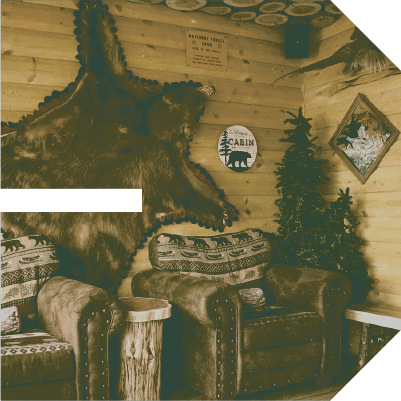
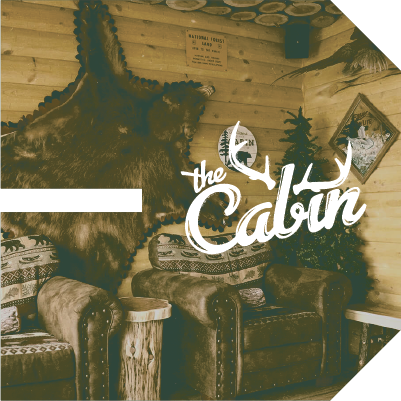
mobilizing 13

Changed region(s): [[0.4489, 0.2993, 0.9277, 0.6584]]

diff --git a/src/components/Cube.vue b/src/components/Cube.vue
@@ -9,12 +9,10 @@
         .cube__face.cube__face--back back
         .cube__face.cube__face--right(:style="bgColor" @click="goToCaseStudy")
             img(:alt='project' :src='getImgUrl(image, ".png")' width="100%" height="100%")
-            .picture-overlay( :class="cubeFace == 'showRight'? 'show-picture' : pictureclass" )
-                img(:src='getLogoUrl(image)' class="image-overlay")  
         .cube__face.cube__face--left
             IconBase(width="22vw" height="22vw" :icon-name="project" :icon-color="color2")
                 component(:is="letter")
-        .cube__face.cube__face--top(:style="[cubeFace == 'showTop' || light? {'background' : 'black'} : {'background' : 'white' }]")
+        .cube__face.cube__face--top(:style="[cubeFace == 'showTop' || light? {'background' : 'black'} : bgColor]")
             .project-name
                 p {{ project }}
             .icon-container(v-for="(icon, index) in iconObject" @click="colorChanger(icon.name, icon.clicked)")
@@ -61,9 +59,6 @@ export default {
     methods: {
         getImgUrl(pic, ext){
             return require('../assets/img/' + pic + ext)
-        },
-        getLogoUrl(pic){
-            return require('../assets/img/cases/overlay/' + pic + '.png')
         },
         goToCaseStudy(){
             this.$router.push(this.image)

diff --git a/src/components/MobileMenu.vue b/src/components/MobileMenu.vue
@@ -5,15 +5,16 @@
     .menu-container(:class="opened? 'open' : 'closed'")
         .menu
             .nav(@click="openMenu")
-                img(src="../assets/close.png" width="32px" height="32px")
+                img(src="../assets/close2.png" width="32px" height="32px")
             .nav(@click="goToLink('/')")
                 p HOME
             .nav(@click="goToLink('os')")
                 p WORK
             .nav(@click="goToLink('contact')")
                 p CONTACT
-            .copyright
-                img(src="../assets/copyright.png" width="50%")
+            b-row(class="copyright")
+                b-col(xs=6 md=6 lg=4 offset-md="3" offset-lg="4")
+                    img(src="../assets/copyright.png" width="50%")
 </template>
 
 <script>
@@ -56,7 +57,9 @@ export default {
 
 .menu-icon img {
     @media(max-width: 767px) { 
-        width 8vw
+        width 12vw
+        margin-right: 2vw
+        margin-top: 2vw
     }
     @media(min-width: 768px) { 
         width 4vw
@@ -102,11 +105,13 @@ export default {
     padding-bottom: 30px
     padding-top:20px
     margin 0 auto
+    cursor: url('../assets/hand.png'), auto
 
 .nav img 
     margin: 25px
 
 .copyright
-    margin-top: 35%
+    margin-top: 10%
+
 
 </style>

diff --git a/src/components/cases/CaseRight.vue b/src/components/cases/CaseRight.vue
@@ -12,10 +12,8 @@
     slot(name='image10')
     slot(name='image11')
     slot(name='image12')
-    SideBar(class="sidebar-hide")
-    MobileMenu(class="mobile-menu-hide")
-    //.escape(class="escape-desktop" @click="goHome")
-      img(src="../../assets/escape.png"  width="32px")
+    //SideBar(class="sidebar-hide")
+    MobileMenu
     .prev-next(class="mobile-menu-hide")
       .prev
           img(src="../../assets/prev.png" @click="goToLink(false)")
@@ -45,9 +43,6 @@ export default {
     MobileMenu
   },
   methods: {
-      goHome(){
-          this.$router.push('/')
-      },
       goToLink(forward){
         var index = this.cases.indexOf(this.case)
         console.log(index)
@@ -84,7 +79,7 @@ export default {
       display: inline-block
       width: 65%
       float: right 
-      padding-right: 65px
+      //padding-right: 65px
     }
 }
 
@@ -97,21 +92,6 @@ export default {
 .mobile-menu-hide {
   @media(min-width: 1140px) { 
     display: none !important
-  }
-}
-
-
-.escape
-    position: fixed
-    top: 0
-    right: 0
-    padding 35px
-
-
-.escape-desktop {
-  @media(min-width: 1140px) { 
-    right: 85px
-    width: 40px
   }
 }
 

diff --git a/src/components/cases/CaseLeft.vue b/src/components/cases/CaseLeft.vue
@@ -1,5 +1,7 @@
 <template lang="pug">
 #case-left(:style="bg")
+    .escape(class="escape-desktop hide-prev" @click="goHome")
+        img(src="../../assets/escape.png"  width="32px")
     .case-content
         h1 {{caseTitle}}
         .line-two
@@ -79,8 +81,12 @@ export default {
             else
                 this.$router.push(this.cases[this.cases.length-1])
         window.scrollTo(0,0)
-    }
     },
+    goHome(){
+          this.$router.push('/')
+    },
+  },
+    
 }
 
 </script>
@@ -186,14 +192,30 @@ p {
 .prev img
     width: 25%
     float: left 
+    cursor: url('../../assets/hand.png'), auto
 
 .next img
     width: 25%
     float: right
-
+    cursor: url('../../assets/hand.png'), auto
+    
 .hide-prev {
   @media(max-width: 1139px) { 
     display: none !important
+  }
+}
+
+.escape
+    position: fixed
+    top: 0
+    left: 30%
+    padding 35px
+
+
+.escape-desktop {
+  @media(min-width: 1140px) { 
+    right: 85px
+    width: 40px
   }
 }
 

diff --git a/src/components/Home.vue b/src/components/Home.vue
@@ -167,7 +167,7 @@ body
     transform: translateX(-50%) translateY(-50%)
     min-height: 100% 
     min-width: 100% 
-    z-index: 1 
+    z-index: 3 
     overflow: hidden
 
 .footerclass{
